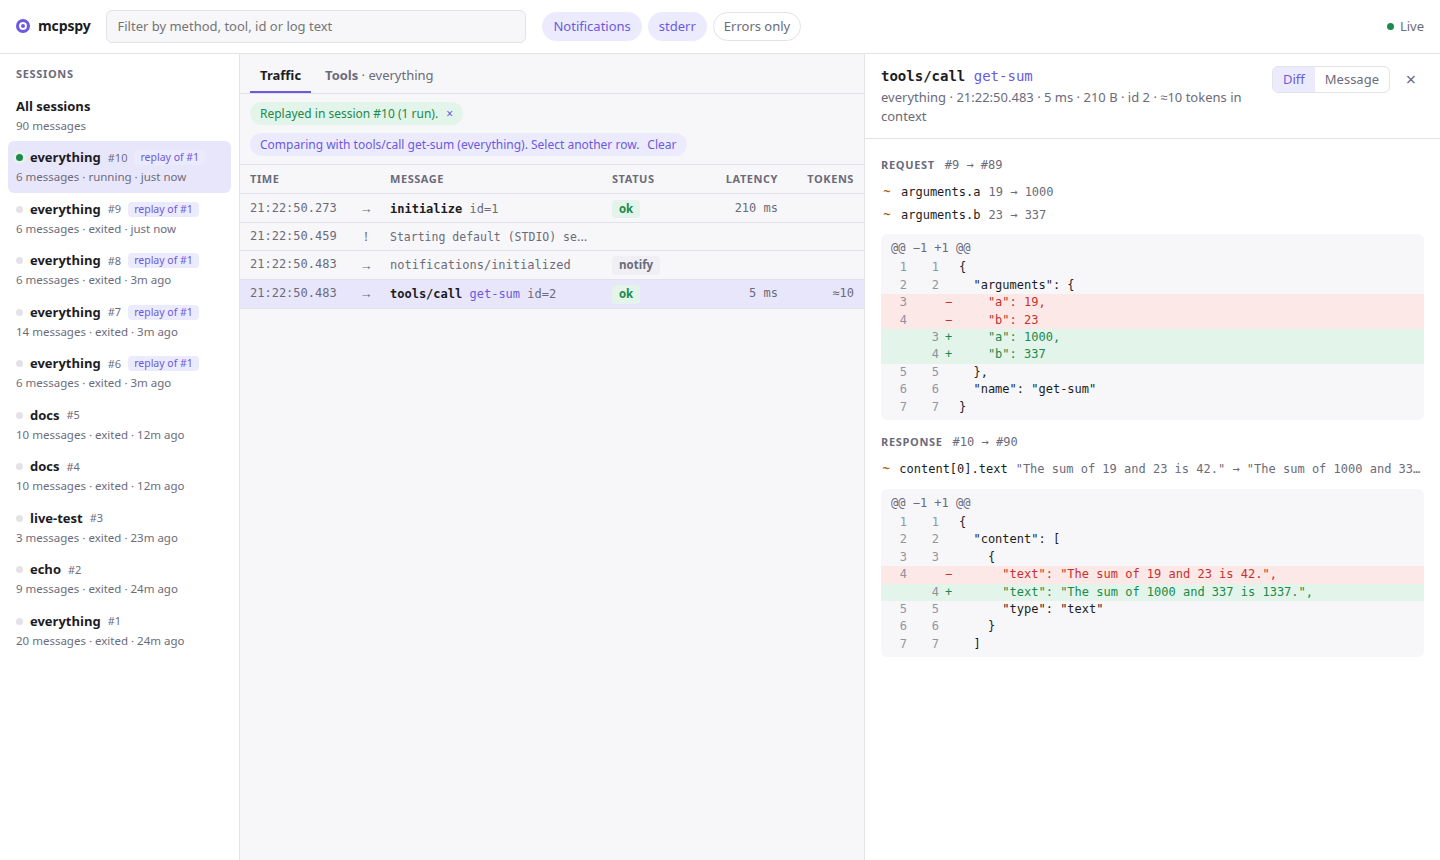
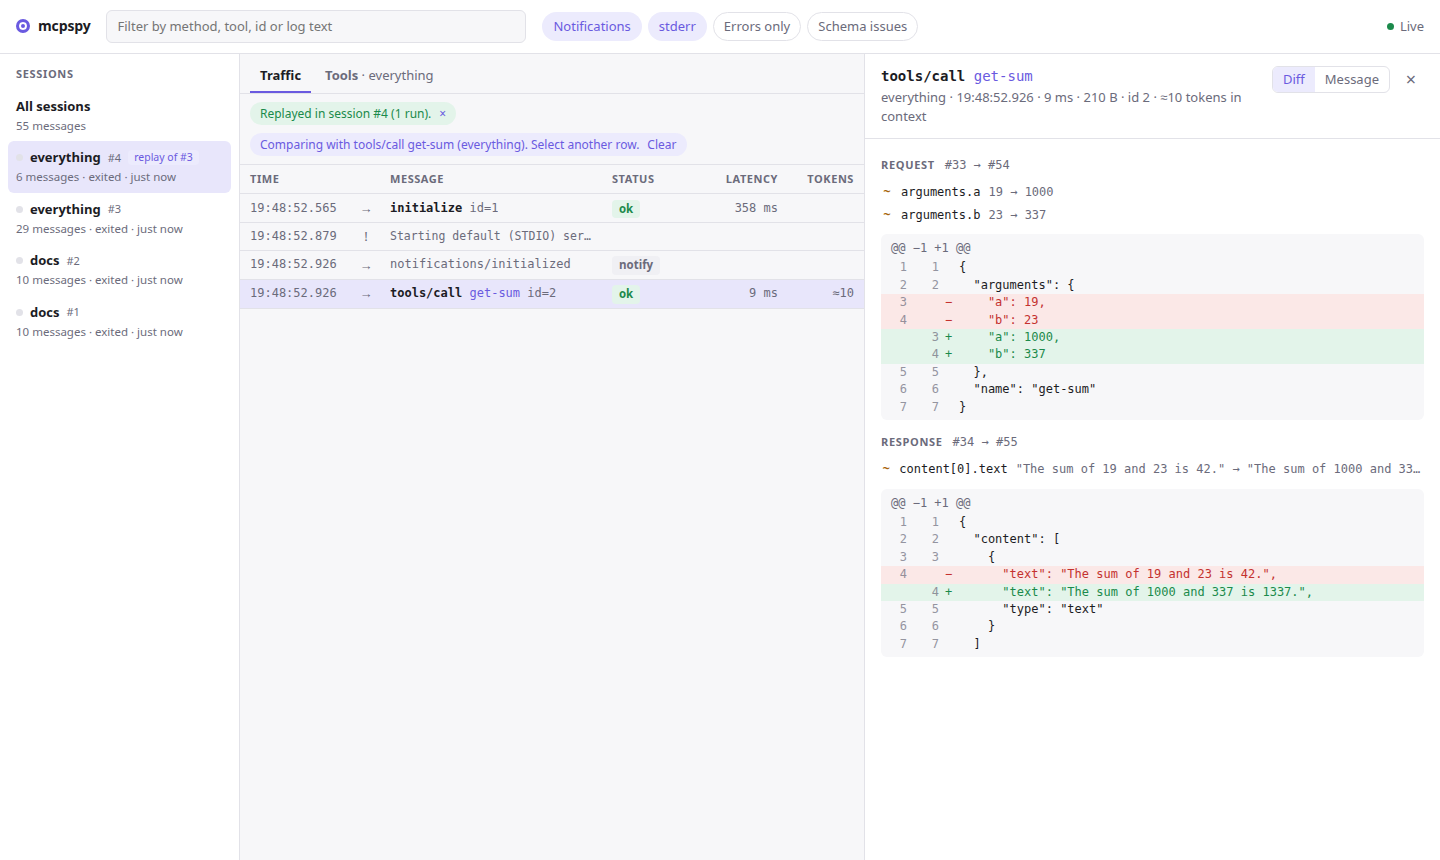
Refresh the README and its oldest screenshots
The main screenshot, Tools and Replay were taken in milestones 2-4 and
lacked the Schema issues filter and the newer columns. They're retaken
from a fresh recording made through mcpspy run --mocks with
server-everything; the main one now shows mock badges, issue counts,
errors, token estimates and a GitHub token recorded as [REDACTED].

Text brought up to date with #2-#6: redaction in the overview, the
recording diagram and the messages table; paged tool lists in the
validation notes; the stored session message count; and mcpspy wrap in
the overview.

diff --git a/README.md b/README.md
@@ -14,7 +14,7 @@
 </p>
 
 <p align="center">
-    <img src="docs/screenshot.png" alt="The mcpspy web UI: sessions on the left, request and response pairs in the middle, and the selected tool call's request and result on the right." width="900">
+    <img src="docs/screenshot.png" alt="The mcpspy web UI: sessions on the left; request and response pairs in the middle, with mock badges, schema issue counts, errors and token estimates; and on the right an echo call whose GitHub token was recorded as [REDACTED]." width="900">
 </p>
 
 <p align="center">
@@ -32,14 +32,14 @@
 
 ## Why mcpspy?
 
-MCP traffic is invisible. The agent says "the tool failed", or quietly picks the wrong tool, and all you have to go on is the model's summary of what happened. mcpspy shows you the messages themselves.
+MCP traffic is invisible. The agent says "the tool failed", or quietly picks the wrong tool, and all you have to go on is the model's summary of what happened. mcpspy shows you the messages themselves. Once it's installed, `mcpspy wrap` puts it in front of every stdio server in your `.mcp.json`.
 
 - **See what really happened.** Every request, response, notification and stderr line, paired up, timed and searchable, live in a web UI or your terminal. Unlike the official [MCP Inspector](https://github.com/modelcontextprotocol/inspector), which is a client *you* drive, mcpspy records what your *real agent* sends.
 - **Know what it costs.** Every tool definition a server advertises is sent to the model on every turn. mcpspy shows how many tokens each tool and each result adds, and what changed since the server's last session.
 - **Reproduce without re-prompting.** Replay any recorded call against a fresh server, edit its arguments, run it 20 times for a latency spread, or save it in a regression suite that runs in CI.
 - **Catch protocol bugs early.** Arguments and results are checked against the schemas the server itself declared, as they pass through.
 - **Fake what isn't there.** Answer calls from mock rules (outages, rate limits, slow responses, bad payloads) to see how an agent copes, or stand in for a server that doesn't exist yet.
-- **Nothing leaves your machine.** The log is a SQLite file in your home folder. The UI and proxy only listen on localhost, environment variable values are never stored, and HTTP headers such as `Authorization` are never recorded.
+- **Nothing leaves your machine, and secrets stay out of the log.** The log is a SQLite file in your home folder. The UI and proxy only listen on localhost. Tokens and passwords in the traffic are replaced with `[REDACTED]` before they're stored. Environment variable values and HTTP headers such as `Authorization` are never recorded.
 
 ## Quick start
 
@@ -425,7 +425,8 @@ With `--mocks`, the proxy has to read a request before deciding whether the serv
 flowchart LR
     B["bytes"] --> F["LineSplitter<br/>one frame per \n line"]
     F --> C["classifyFrame<br/>request · notification ·<br/>response · error · invalid<br/>(batches expanded)"]
-    C --> P["pair responses<br/>with requests"]
+    C --> R["redact secrets"]
+    R --> P["pair responses<br/>with requests"]
     P --> T["estimate tokens<br/>for results"]
     T --> V["validate against<br/>declared schemas"]
     V --> D[("messages row")]
@@ -442,7 +443,7 @@ if (message.kind === 'response' || message.kind === 'error') {
 }
 ```
 
-Validation works the same way, one session at a time: the session's latest `tools/list` response is compiled into JSON Schema validators (with [Ajv](https://ajv.js.org)), and each later call and result is checked against them as it passes.
+Validation works the same way, one session at a time: the session's latest tool list (joined across pages, when the server sends it in pages) is compiled into JSON Schema validators (with [Ajv](https://ajv.js.org)), and each later call and result is checked against them as it passes.
 
 ### The HTTP proxy
 
@@ -515,8 +516,8 @@ Everything lives in one SQLite file, `~/.mcpspy/mcpspy.db` (or `--db` / `$MCPSPY
 
 | Table | One row per |
 | --- | --- |
-| `sessions` | server session: name, transport (`stdio`, `http`, `sse`, `mock`, `replay`), command or URL, working directory, start and end, exit code, and the session it replays |
-| `messages` | message: direction, kind, method, JSON-RPC id, the raw payload, the request it answers, latency, tokens, schema issues, and the mock rule that answered it |
+| `sessions` | server session: name, transport (`stdio`, `http`, `sse`, `mock`, `replay`), command or URL, working directory, start and end, exit code, the session it replays, and its message count (kept up to date by a trigger) |
+| `messages` | message: direction, kind, method, JSON-RPC id, the payload (secrets redacted), the request it answers, latency, tokens, schema issues, and the mock rule that answered it |
 | `exact_counts` | cached `count_tokens` result per message and model |
 
 It's yours to query. For example, the slowest tools across every session:
